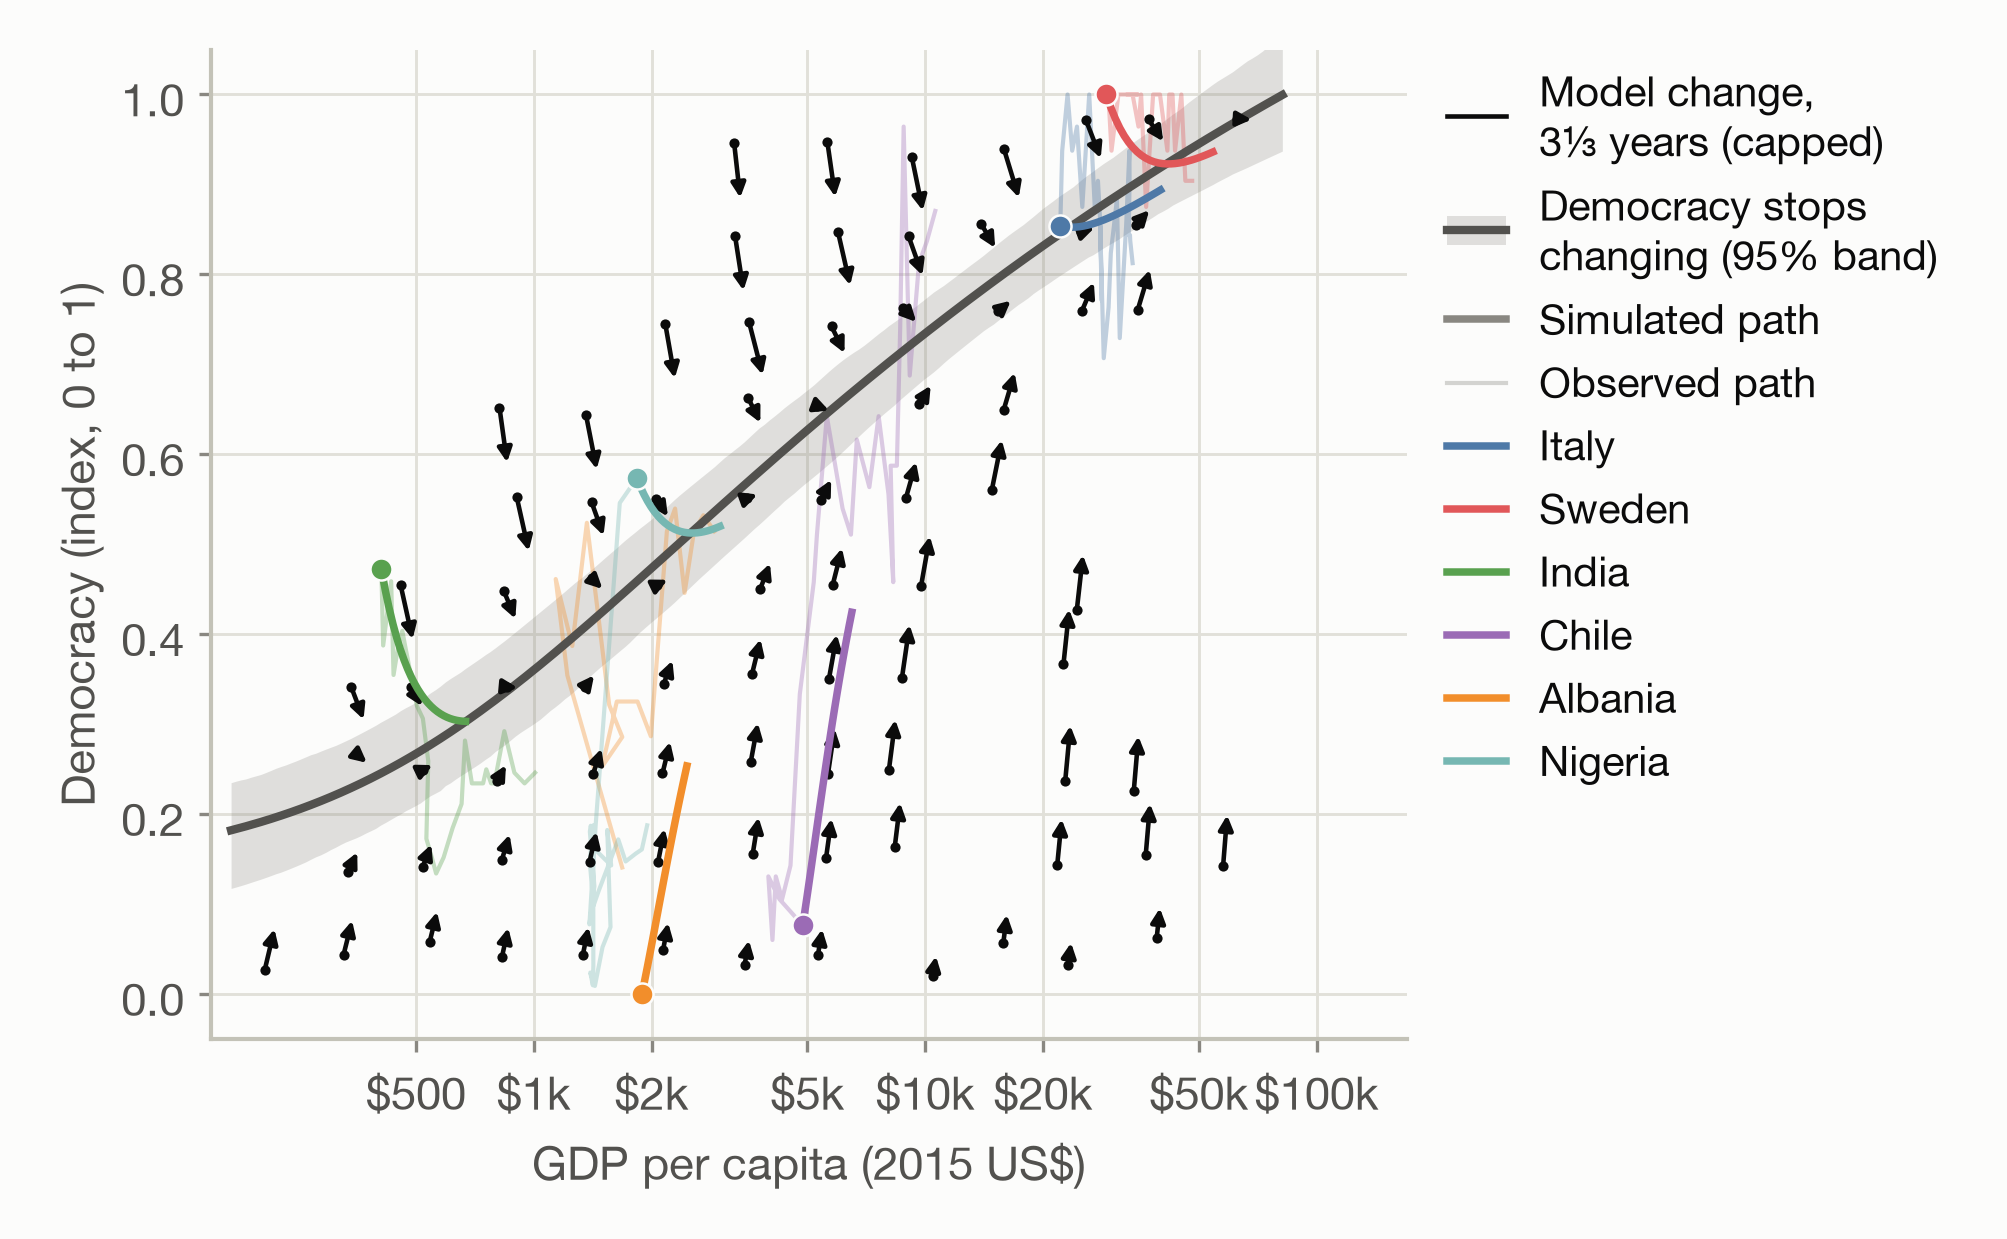
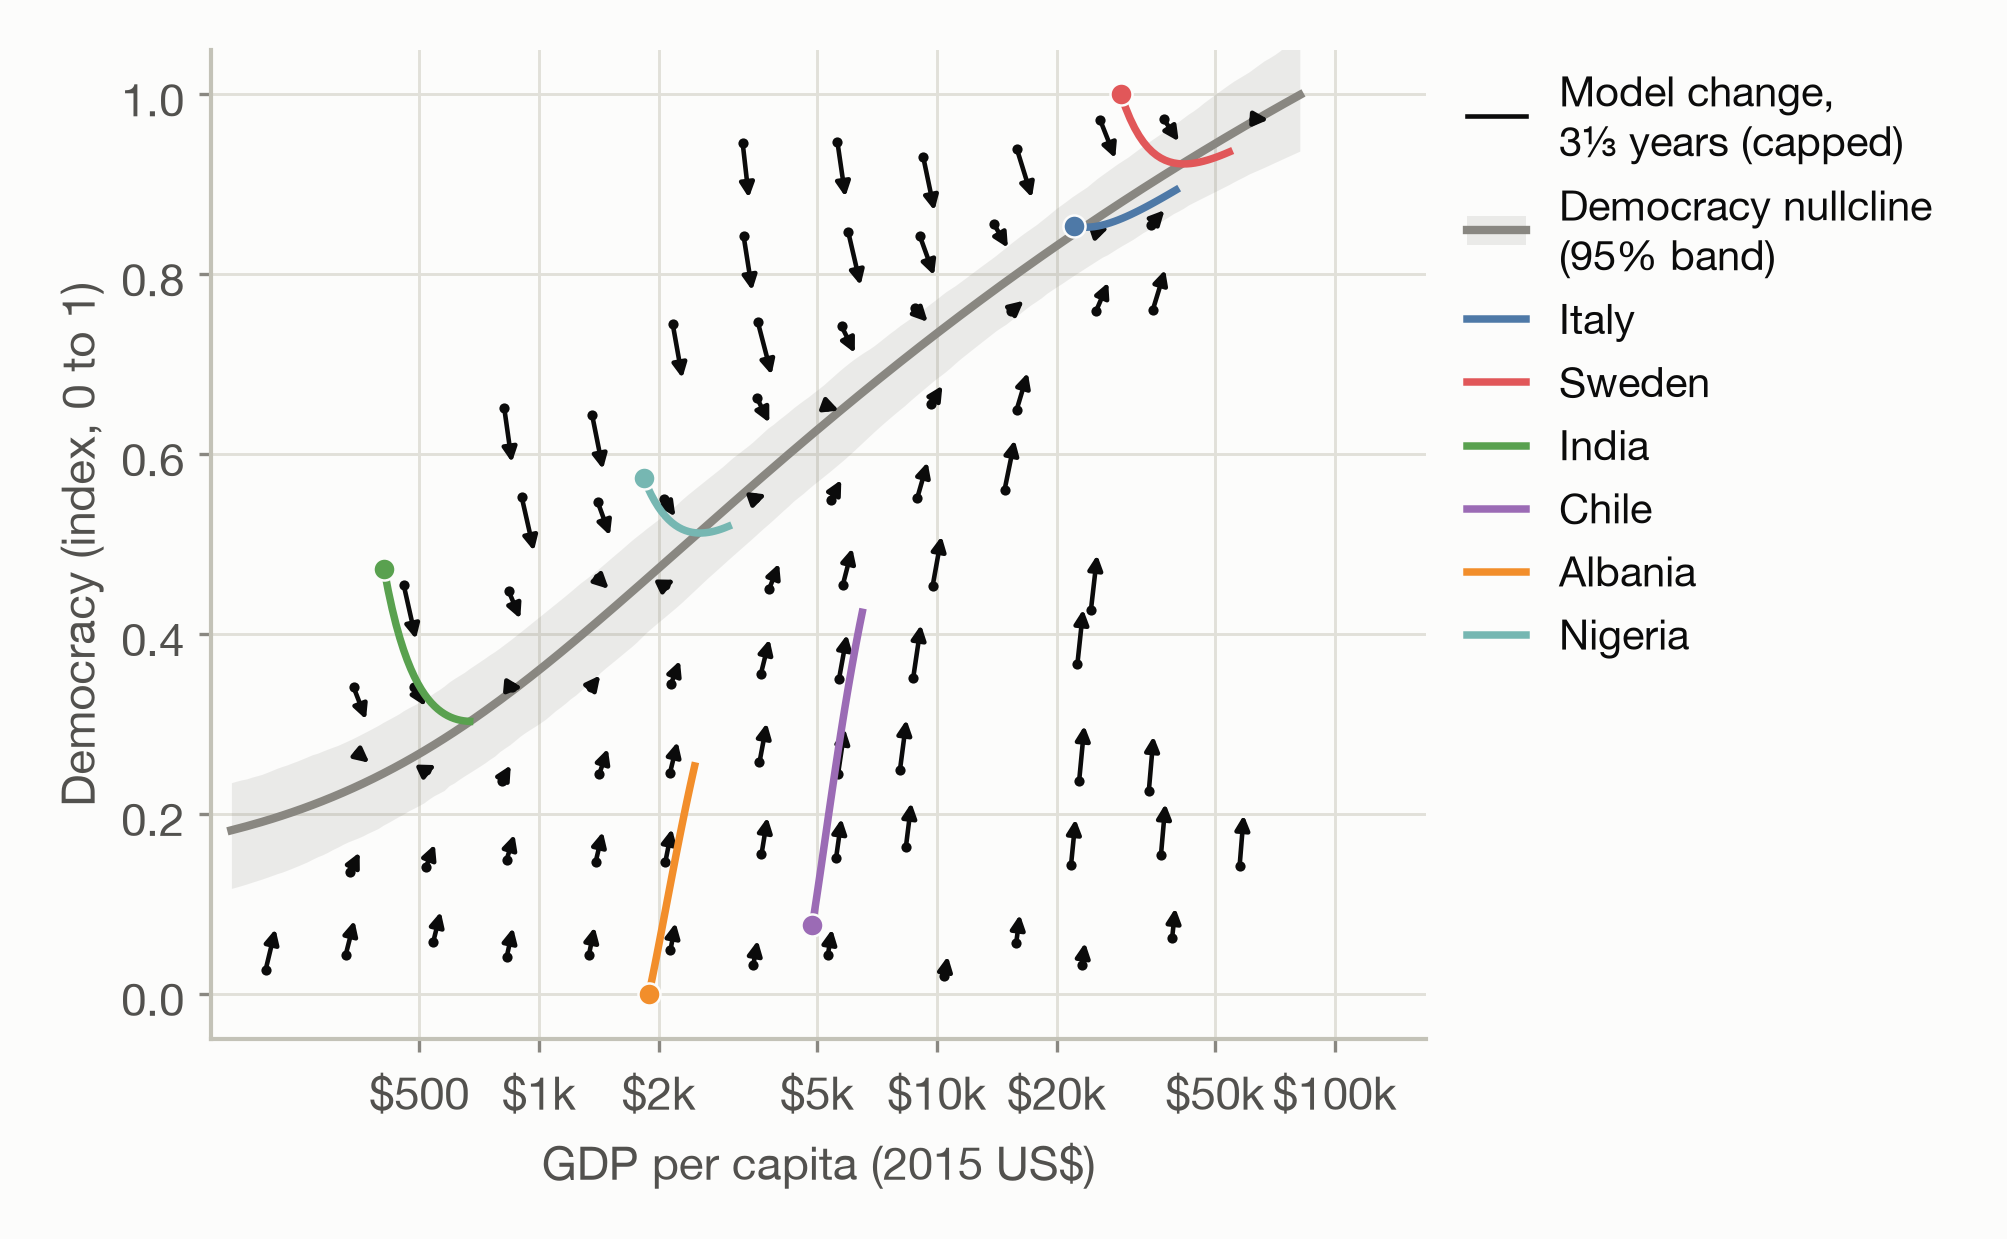
Step 4: Figure 4 without observed paths; democracy nullcline, lighter

diff --git a/Code/09_fig_model_phase_portrait.py b/Code/09_fig_model_phase_portrait.py
@@ -4,8 +4,8 @@ Locked format (instructions.md, Report Format), same axes and arrow cells as Fig
   - model change (dG, dD) at the Figure 3 cell positions, locked arrows
   - the curve where democracy stops changing, with its 95% posterior band,
     drawn over the observed GDP range
-  - the six representative countries: simulated paths solid with a start dot,
-    observed paths faint
+  - the six representative countries' simulated paths, with a start dot
+  - no data: observed paths removed at the user's request; nullcline in light grey
 
 Reads outputs/08_model_field.csv, 08_nullcline.csv, 08_simulated_paths.csv, panel.csv.
 Writes outputs/figures/fig4_model_phase_portrait.png (light and dark).
@@ -32,12 +32,10 @@ for theme_name in ("light", "dark"):
     t = style(theme_name)
     fig, ax = plt.subplots(figsize=(17 * CM, 10.5 * CM))
     ink = t.text_primary
-    ax.fill_between(null.usd, null.lo, null.hi, color=t.muted, alpha=0.25, lw=0, zorder=1)
-    ax.plot(null.usd, null.D_star, color=t.text_secondary, lw=2.0, zorder=3)
+    ax.fill_between(null.usd, null.lo, null.hi, color=t.muted, alpha=0.15, lw=0, zorder=1)
+    ax.plot(null.usd, null.D_star, color=t.muted, lw=2.0, zorder=3)
     for iso in REP:
         c = REP_COLOUR[iso]
-        o = p[p.iso3 == iso].set_index("year")[["G", "D"]].reindex(years)
-        ax.plot(usd(o.G.values), o.D.values, color=c, lw=1.0, alpha=0.35, zorder=2)
         s = sim[sim.iso3 == iso]
         ax.plot(usd(s.G.values), s.D.values, color=c, lw=1.8, zorder=6)
         ax.scatter(usd(s.G.values[0]), s.D.values[0], s=28, color=c, zorder=7,
@@ -48,11 +46,9 @@ for theme_name in ("light", "dark"):
     ax.set_xlabel(GDP_LABEL)
     ax.set_ylabel(D_LABEL)
     handles = [Line2D([0], [0], color=ink, lw=1.1),
-               (Patch(color=t.muted, alpha=0.25, lw=0), Line2D([0], [0], color=t.text_secondary, lw=2.0)),
-               Line2D([0], [0], color=t.muted, lw=1.8),
-               Line2D([0], [0], color=t.muted, lw=1.0, alpha=0.35)]
+               (Patch(color=t.muted, alpha=0.15, lw=0), Line2D([0], [0], color=t.muted, lw=2.0))]
     labels = [ARROW_LEGEND.replace("Mean change", "Model change"),
-              "Democracy stops\nchanging (95% band)", "Simulated path", "Observed path"]
+              "Democracy nullcline\n(95% band)"]
     handles += [Line2D([0], [0], color=REP_COLOUR[i], lw=1.8) for i in REP]
     labels += list(REP.values())
     ax.legend(handles, labels, loc="upper left", bbox_to_anchor=(1.02, 1.0),

diff --git a/Report.md b/Report.md
@@ -72,13 +72,13 @@ The 95% credible intervals are 0.00146 to 0.00224 for $D$ and 0.00019 to 0.00035
 
 ### Sub-question 3: the two equations together
 
-The yearly change in democracy is zero along a curve that rises with GDP per capita (Figure 4). On the curve, democracy is 0.27 at \$500 per person, 0.47 at \$2,000, 0.63 at \$5,000, 0.73 at \$10,000, 0.83 at \$20,000 and 0.95 at \$50,000, and the curve reaches 1 at about \$84,000. Below the curve democracy rises and above it democracy falls, at every level of GDP in the observed range. The 95% band around the curve has a median width of 0.11 in democracy. The yearly change in GDP per capita is positive everywhere in the observed range, from 0.3% to 4.1% a year, so the two equations have no point within it where both changes stop. Stepped forward from their first observed states, the 183 countries' median distance from the curve falls from 0.23 to 0.08 by 2006, and 168 of them end closer to it than they started. Along the observed paths, the median distance falls from 0.23 to 0.15, and 104 countries end closer than they started.
+The yearly change in democracy is zero along a curve that rises with GDP per capita, the democracy nullcline (Figure 4). On the nullcline, democracy is 0.27 at \$500 per person, 0.47 at \$2,000, 0.63 at \$5,000, 0.73 at \$10,000, 0.83 at \$20,000 and 0.95 at \$50,000, and it reaches 1 at about \$84,000. Below the nullcline democracy rises and above it democracy falls, at every level of GDP in the observed range. The 95% band around the nullcline has a median width of 0.11 in democracy. The yearly change in GDP per capita is positive everywhere in the observed range, from 0.3% to 4.1% a year, so the two equations have no point within it where both changes stop. Stepped forward from their first observed states, the 183 countries' median distance from the nullcline falls from 0.23 to 0.08 by 2006, and 168 of them end closer to it than they started. Along the observed paths, the median distance falls from 0.23 to 0.15, and 104 countries end closer than they started.
 
-Figure 4 is read like Figure 3, but the arrows now show the change predicted by the two equations at the same positions, not the observed average. The dark line is where the predicted change in democracy is zero, and the grey band is its 95% interval. The coloured lines with a dot are where the equations take each of the six countries from its 1981 state, and the faint lines are where the countries actually went.
+Figure 4 is read like Figure 3, but the arrows now show the change predicted by the two equations at the same positions, not the observed average. The grey line is the democracy nullcline, where the predicted change in democracy is zero, and the light grey band is its 95% interval. The coloured lines with a dot are where the equations take each of the six countries from its 1981 state; their observed paths are in Figure 2.
 
 ![Figure 4](Code/outputs/figures/fig4_model_phase_portrait.png)
 
-<small><b>Figure 4.</b> Yearly changes in democracy and GDP per capita (constant 2015 US dollars, logarithmic scale) predicted by the selected models. Arrows show the predicted change at the positions of the arrows in Figure 3, drawn at 3⅓ times the yearly change; 14 of the 83 are shortened to 0.47 cm with their direction unchanged. The dark line is where the predicted yearly change in democracy is zero, drawn where it lies between 0 and 1 and within the observed range of GDP, with its 95% band from 1,000 posterior draws. Coloured lines with a dot are the six countries' paths simulated year by year from their 1981 states to 2006; faint lines are their observed paths.</small>
+<small><b>Figure 4.</b> Yearly changes in democracy and GDP per capita (constant 2015 US dollars, logarithmic scale) predicted by the selected models. Arrows show the predicted change at the positions of the arrows in Figure 3, drawn at 3⅓ times the yearly change; 14 of the 83 are shortened to 0.47 cm with their direction unchanged. The grey line is the democracy nullcline, where the predicted yearly change in democracy is zero, drawn where it lies between 0 and 1 and within the observed range of GDP, with its 95% band from 1,000 posterior draws. Coloured lines with a dot are the six countries' paths simulated year by year from their 1981 states to 2006.</small>
 
 ## Discussion
 

diff --git a/Appendix.md b/Appendix.md
@@ -283,6 +283,7 @@ Computed by `Code/08_joint_dynamics.py`; drawn by `Code/09_fig_model_phase_portr
   - Arrows are model changes at the 83 cell positions of Figure 3, in the locked format; 14 are capped (`09_model_portrait_counts.txt`).
   - The arrow-drawing code moved into `sds_common.draw_capped_arrows` so Figures 3 and 4 share one implementation. Figure 3 was redrawn with it and is unchanged (33 of 83 capped).
   - The first render drew the curve over the whole observed GDP range, so it rose past the index's maximum of 1. It is now drawn only where it is between 0 and 1. Superseded: the curve drawn over the full GDP range.
+  - At the user's request ("too messy"), the observed paths were removed from Figure 4, so only the simulated paths remain. The curve was named "Democracy nullcline" in the legend and text, and drawn in light grey with a lighter band. Superseded: faint observed paths, the darker curve, and the legend entries "Simulated path" and "Observed path".
 - **Comparison with Ranganathan, Spaiser and Sumpter (2013)** (replication only, not in the report).
   - The paper reports a stable curve from low democracy and low GDP to high democracy and high GDP, onto which countries converge. Countries high in democracy and low in GDP lose democracy until they reach it.
   - **Reproduced on the agreed criterion.** The fitted curve rises from low–low to high–high, attracts everywhere in range, and lies below countries that are high in democracy and low in GDP, so their democracy falls towards it. The simulated paths converge on it: 168 of 183 end closer.
@@ -316,6 +317,7 @@ Computed by `Code/08_joint_dynamics.py`; drawn by `Code/09_fig_model_phase_portr
 | 20 | Step 4, sub-question 1. Agreed: $\sigma$ fixed at sd($\Delta D$) and a normal prior with $\lambda$ = sd($\Delta D$) on RMS-scaled terms. Selected four terms: $D$, $D/G$, $D^2$, $1/G^2$, P(size) = 0.68. Checks run: prior ×0.1 and ×10, $\sigma$ from residuals, lag-1 residual correlation, 500 country resamples. Comparison with the paper in the appendix only. Wrote `Methods` (`Data`, `Model`, `Model selection and uncertainty`) and the sub-question 1 paragraph in `Results`. | `Code/06_fit_change_model.py`; `Code/outputs/06_fit_D.*`; `Report.md` |
 | 21 | Step 4, sub-question 2. Same method on $\Delta G$. Selected two terms: $D$, $1/G^2$, P(size) = 0.75. Democracy is included with a log Bayes factor of 14.9 over the best model without it. Lag-1 residual correlation +0.26, absorbed by the country resampling, which is reported. Cross-equation correlation +0.011; SUR changes nothing (appendix only). Comparison with the paper in the appendix only. Added the sub-question 2 paragraph to `Results`, and to `Methods` one sentence converting changes in $G$ to GDP growth. | `Code/06_fit_change_model.py`; `Code/07_joint_checks.py`; `Report.md` |
 | 22 | Step 4, sub-question 3. Agreed: zero-change curves from posterior means; a 95% band from 1,000 posterior draws, with the resampled band in the appendix; yearly stepping from first observed states; a distance-to-curve convergence measure. Democracy's zero-change curve rises with GDP and attracts everywhere; GDP grows everywhere in range; 168 of 183 simulated and 104 of 183 observed countries end closer to the curve. Figure 4 made in the locked format, with the zero-change curve, its band and the simulated paths added; the curve is clipped to the range of the index after the first render. Added a `Methods` sub-heading and a `Results` paragraph with a reading paragraph. | `Code/08_joint_dynamics.py`, `Code/09_fig_model_phase_portrait.py`; `Report.md` |
+| 23 | Step 4. Figure 4 simplified at the user's request: observed paths removed, the curve named "democracy nullcline" and drawn lighter. The text and caption were updated, and now point to Figure 2 for the observed paths. | `Code/09_fig_model_phase_portrait.py`; `Report.md` |
 
 ## Code Summary
 
